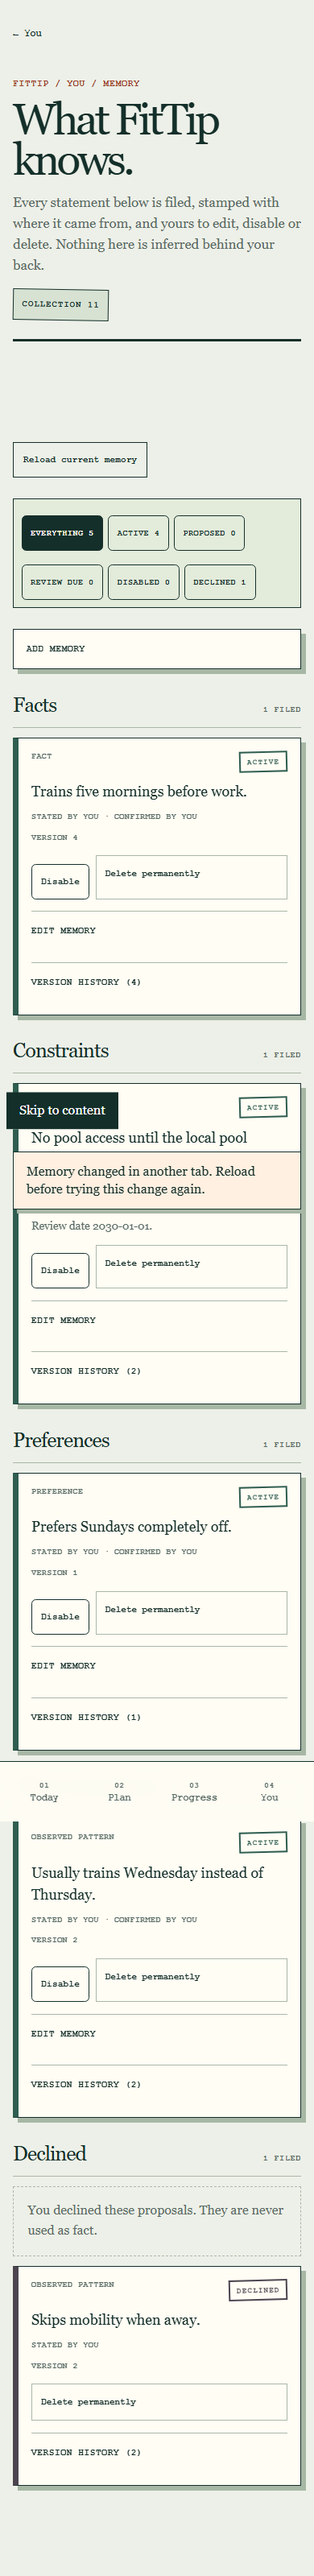
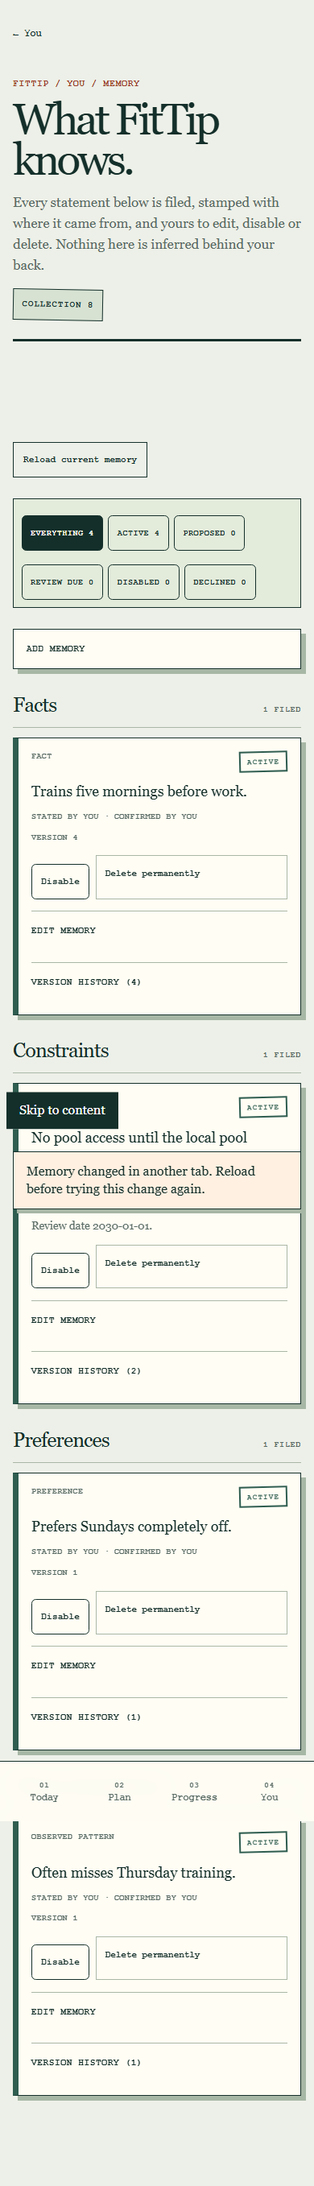
feat(m2-02): drop the review-queue steps a user can no longer reach
The create option no longer says "(starts proposed)", because it does not.

The 390px flow stops asserting accept, edit-and-accept and decline. With the
owner's decision there is no user path to a proposal, and manufacturing one
to keep the flow green would let a user create content that reads as
system-inferred — the exact thing this ticket forbids. Those actions stay
covered in pgTAP against directly seeded inferred_proposed items. The flow
now asserts the opposite invariant instead: a user-written observed pattern
files as Active, the review queue is absent, and filtering to Proposed shows
an honest empty state rather than hiding what the status means.

Deletes M2-02-review-queue-390x844.png: it shows a screen no user can reach,
and keeping it as evidence would misrepresent the product.

The component fixture for a proposal now carries inferred_proposed
provenance, since user_created plus proposed is no longer a state the write
path can produce.

Changed region(s): [[0.0, 0.0309, 0.9846, 0.9901], [0.9538, 0.8044, 0.9846, 0.8972], [0.9538, 0.3094, 0.9846, 0.3403]]

diff --git a/e2e/m2-02-memory.spec.ts b/e2e/m2-02-memory.spec.ts
@@ -63,11 +63,13 @@ test.describe("M2-02 memory management", () => {
         "Often misses Thursday training.",
       );
 
-      // Every class is filed separately and each card is stamped.
+      // Every class is filed separately and each card is stamped. An observed
+      // pattern the owner wrote is active like the rest; nothing a user can
+      // create lands in the review queue.
       for (const heading of [
         "Facts",
         "Preferences",
-        "Needs your review",
+        "Observed patterns",
         "Review due",
       ]) {
         await expect(
@@ -75,8 +77,11 @@ test.describe("M2-02 memory management", () => {
         ).toBeVisible();
       }
       await expect(card(page, "Often misses Thursday training.")).toContainText(
-        "Proposed · needs your review",
+        "Active",
       );
+      await expect(
+        page.getByRole("heading", { name: "Needs your review" }),
+      ).toBeHidden();
       await expect(
         card(page, "No pool access until the local pool reopens."),
       ).toContainText("Review due");
@@ -145,52 +150,10 @@ test.describe("M2-02 memory management", () => {
         page.getByRole("heading", { name: "Review due" }),
       ).toBeHidden();
 
-      // A proposal needs an explicit acceptance, and edit-and-accept records
-      // the owner's own words.
-      await settled(page);
-      const proposalCard = card(page, "Often misses Thursday training.");
-      await page.screenshot({
-        fullPage: true,
-        path: path.join(evidenceDirectory, "M2-02-review-queue-390x844.png"),
-      });
-      await openDetails(proposalCard.locator("details[data-memory-editor]"));
-      await proposalCard
-        .getByLabel("What FitTip should remember")
-        .fill("Usually trains Wednesday instead of Thursday.");
-      await proposalCard
-        .getByRole("button", { name: "Save and accept" })
-        .click();
-      const acceptedCard = card(
-        page,
-        "Usually trains Wednesday instead of Thursday.",
-      );
-      await expect(acceptedCard).toContainText("Active");
-      await expect(acceptedCard).toContainText("confirmed by you");
-      await expect(
-        page.getByRole("heading", { name: "Needs your review" }),
-      ).toBeHidden();
-
-      // A declined proposal is never switched on as fact.
-      await addMemory(page, "observed_pattern", "Skips mobility when away.");
-      await settled(page);
-      const declineTarget = card(page, "Skips mobility when away.");
-      const decline = confirmation(declineTarget, "reject", "Confirm decline");
-      await decline.summary.focus();
-      await page.keyboard.press("Enter");
-      await expect(declineTarget).toContainText(
-        /Declining keeps this out of coaching context/,
-      );
-      await page.keyboard.press("Tab");
-      await expect(decline.confirm).toBeFocused();
-      await decline.confirm.click();
-      await expect(card(page, "Skips mobility when away.")).toContainText(
-        "Declined",
-      );
-      await expect(
-        card(page, "Skips mobility when away.").getByRole("button", {
-          name: "Enable",
-        }),
-      ).toHaveCount(0);
+      // Accept, edit-and-accept and decline are unreachable from any user
+      // path: only genuinely system-derived content is ever proposed, and
+      // nothing in M2-02 produces that. Those actions are proven at the
+      // database level in m2_02_memory.test.sql instead of being faked here.
 
       // A stale save is reported honestly and offers a real recovery.
       const stalePage = await page.context().newPage();
@@ -244,9 +207,11 @@ test.describe("M2-02 memory management", () => {
 
       // The filter narrows the view without hiding what a status means.
       await settled(page);
-      await page.getByRole("button", { name: /^Declined 1$/ }).click();
+      await page.getByRole("button", { name: /^Proposed 0$/ }).click();
+      // The review queue is empty and says so, rather than hiding what the
+      // status means.
       await expect(
-        page.getByText(/You declined these proposals/),
+        page.getByText("No memory matches this filter."),
       ).toBeVisible();
       await expect(
         page.getByText("Trains five mornings before work."),

diff --git a/src/components/memory/memory-manager.test.tsx b/src/components/memory/memory-manager.test.tsx
@@ -185,9 +185,38 @@ describe("MemoryManager", () => {
     ).toBeInTheDocument();
   });
 
+  it("files a user-written observed pattern as active, like any other class", () => {
+    renderManager([
+      item({
+        id: "p",
+        memoryType: "observed_pattern",
+        content: "Often misses Thursday.",
+      }),
+    ]);
+
+    expect(
+      screen.getByRole("heading", { name: "Observed patterns" }),
+    ).toBeInTheDocument();
+    expect(stamps()).toEqual(["Active"]);
+    expect(
+      screen.queryByRole("heading", { name: "Needs your review" }),
+    ).not.toBeInTheDocument();
+    expect(
+      screen.queryByRole("button", { name: "Accept" }),
+    ).not.toBeInTheDocument();
+    expect(screen.getByRole("button", { name: "Disable" })).toBeEnabled();
+  });
+
+  // Only genuinely system-derived content can be proposed, so the fixture says
+  // so: a user-created proposal is not a state the write path can produce.
   it("offers accept and decline only for a proposal, and never preselects one", () => {
     renderManager([
-      item({ id: "p", status: "proposed", memoryType: "observed_pattern" }),
+      item({
+        id: "p",
+        status: "proposed",
+        provenance: "inferred_proposed",
+        memoryType: "observed_pattern",
+      }),
     ]);
 
     expect(screen.getByRole("button", { name: "Accept" })).toBeEnabled();

diff --git a/src/components/memory/memory-manager.tsx b/src/components/memory/memory-manager.tsx
@@ -530,9 +530,7 @@ function MemoryForm({
             <option value="profile_fact">Fact</option>
             <option value="constraint">Constraint</option>
             <option value="preference">Preference</option>
-            <option value="observed_pattern">
-              Observed pattern (starts proposed)
-            </option>
+            <option value="observed_pattern">Observed pattern</option>
           </select>
         </label>
       ) : null}
